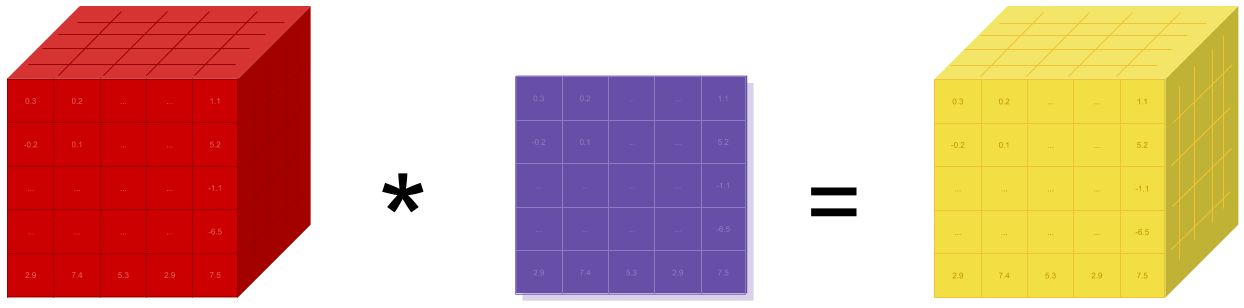
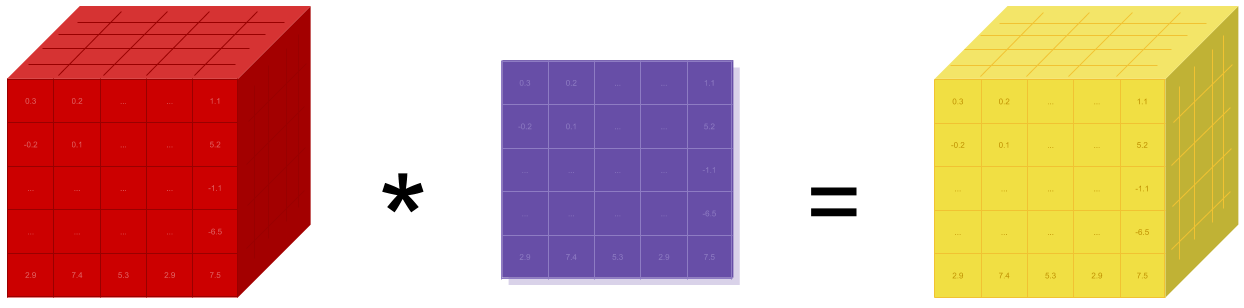
add pic to readme

Changed region(s): [[0.3971, 0.1753, 0.6109, 0.9935]]

diff --git a/README.md b/README.md
@@ -50,6 +50,8 @@ Elaborating further:
 
 If you use numpy, then you have used Tensors (a.k.a ndarray).
 
+<p align=center><img width="30%" src="docs/source/_static/img/tensor_illustration.png" /></p>
+
 PyTorch provides Tensors that can live either on the CPU or the GPU, and accelerate
 compute by a huge amount.
 
@@ -74,6 +76,8 @@ from several research papers on this topic, as well as current and past work suc
 
 While this technique is not unique to PyTorch, it's one of the fastest implementations of it to date.
 You get the best of speed and flexibility for your crazy research.
+
+<p align=center><img width="80%" src="docs/source/_static/img/dynamic_graph.gif" /></p>
 
 ### Python first
 